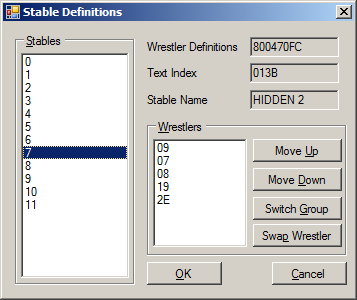
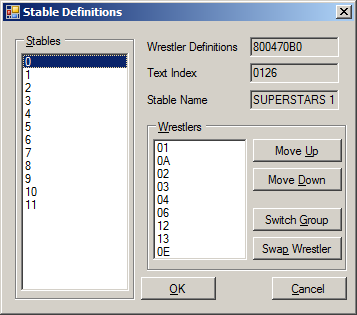
more updates to the manual

diff --git a/VPWStudio/VPWStudio/Manual/index.html b/VPWStudio/VPWStudio/Manual/index.html
@@ -75,8 +75,7 @@ works directly on game data.</p>
 <tr>
 	<th>Game Name</th>
 	<!--<th>Platform</th>-->
-	<th>Region</th>
-	<th>Revision</th>
+	<th>Supported Releases</th>
 </tr>
 </thead>
 <tbody>
@@ -84,97 +83,41 @@ works directly on game data.</p>
 	<td>バーチャル・プロレス<br/>(Virtual Pro-Wrestling)</td>
 	<td>PlayStation 1</td>
 	<td>NTSC-J</td>
-	<td>Original Release</td>
 </tr>-->
 <!--<tr>
 	<td>WCW vs. the World</td>
 	<td>PlayStation 1</td>
 	<td>NTSC-U</td>
-	<td>Original Release</td>
 </tr>-->
 <tr>
 	<td>WCW vs. nWo World Tour</td>
 	<!--<td>Nintendo 64</td>-->
-	<td>NTSC-U</td>
-	<td>Original Release ("v1.0")</td>
-</tr>
-<tr>
-	<td>WCW vs. nWo World Tour</td>
-	<!--<td>Nintendo 64</td>-->
-	<td>NTSC-U</td>
-	<td>Revision A ("v1.1")</td>
-</tr>
-<tr>
-	<td>WCW vs. nWo World Tour</td>
-	<!--<td>Nintendo 64</td>-->
-	<td>PAL</td>
-	<td>Original Release</td>
+	<td>NTSC-U v1.0, NTSC-U v1.1, PAL</td>
 </tr>
 <tr>
 	<td>バーチャル・プロレス64<br/>(Virtual Pro-Wrestling 64)</td>
 	<!--<td>Nintendo 64</td>-->
 	<td>NTSC-J</td>
-	<td>Original Release</td>
 </tr>
 <tr>
 	<td>WCW/nWo Revenge</td>
 	<!--<td>Nintendo 64</td>-->
-	<td>NTSC-U</td>
-	<td>Original Release</td>
+	<td>NTSC-U, PAL</td>
 </tr>
 <tr>
-	<td>WCW/nWo Revenge</td>
+	<td>WWF WrestleMania 2000<br/>(WWFレッスルマニア2000)</td>
 	<!--<td>Nintendo 64</td>-->
-	<td>PAL</td>
-	<td>Original Release</td>
-</tr>
-<tr>
-	<td>WWF WrestleMania 2000</td>
-	<!--<td>Nintendo 64</td>-->
-	<td>NTSC-U</td>
-	<td>Original Release</td>
-</tr>
-<tr>
-	<td>WWFレッスルマニア2000<br/>(WWF WrestleMania 2000)</td>
-	<!--<td>Nintendo 64</td>-->
-	<td>NTSC-J</td>
-	<td>Original Release</td>
-</tr>
-<tr>
-	<td>WWF WrestleMania 2000</td>
-	<!--<td>Nintendo 64</td>-->
-	<td>PAL</td>
-	<td>Original Release</td>
+	<td>NTSC-U, NTSC-J, PAL</td>
 </tr>
 <tr>
 	<td>バーチャル・プロレス2 〜王道継承〜<br/>(Virtual Pro-Wrestling 2)</td>
 	<!--<td>Nintendo 64</td>-->
 	<td>NTSC-J</td>
-	<td>Original Release</td>
 </tr>
 <tr>
 	<td>WWF No Mercy</td>
 	<!--<td>Nintendo 64</td>-->
-	<td>NTSC-U</td>
-	<td>Original Release ("v1.0"/"glitched")</td>
-</tr>
-<tr>
-	<td>WWF No Mercy</td>
-	<!--<td>Nintendo 64</td>-->
-	<td>NTSC-U</td>
-	<td>Revision A ("v1.1"/"unglitched")</td>
-</tr>
-<tr>
-	<td>WWF No Mercy</td>
-	<!--<td>Nintendo 64</td>-->
-	<td>PAL</td>
-	<td>Original Release ("v1.0"/"glitched")</td>
-</tr>
-<tr>
-	<td>WWF No Mercy</td>
-	<!--<td>Nintendo 64</td>-->
-	<td>PAL</td>
-	<td>Revision A ("v1.1"/"unglitched")</td>
+	<td>NTSC-U v1.0, NTSC-U v1.1, PAL v1.0, PAL v1.1</td>
 </tr>
 </tbody>
 </table>
@@ -310,6 +253,9 @@ dialog.</p>
 <p>To build a ROM with the changes you've made, select "Build ROM" from the "Project" menu.
 This will bring up a build log window, which provides updates on the build process.</p>
 
+<p>Depending on the speed of your computer and the Build Log Verbosity setting,
+this process may be relatively short (~10 seconds) or long.</p>
+
 <h3>Play ROM</h3>
 <p>If you want to test the changes in an emulator, select "Play ROM" from the "Project" menu.
 If the changed ROM hasn't been built yet, it will build the ROM before playing it.</p>
@@ -425,7 +371,7 @@ sounds.</p>
 </tr>
 <tr>
 <td>WWF WrestleMania 2000</td>
-<td class="partialsupport">Partial</td>
+<td class="supported">Partial</td>
 </tr>
 <tr>
 <td>Virtual Pro-Wrestling 2</td>
@@ -504,6 +450,15 @@ sounds.</p>
 <hr />
 <h2><a name="Wrestlers">Wrestlers</a></h2>
 <p>"Project &rarr; Wrestlers" (todo)</p>
+
+<h3>WWF WrestleMania 2000</h3>
+<img src="./img/wrestler_editor-wm2k.png" title="Stable Editor - WWF WrestleMania 2000" />
+
+<h3>Virtual Pro-Wrestling 2</h3>
+<img src="./img/wrestler_editor-vpw2.png" title="Stable Editor - Virtual Pro-Wrestling 2" />
+
+<h3>WWF No Mercy</h3>
+<img src="./img/wrestler_editor-nomercy.png" title="Stable Editor - WWF No Mercy" />
 
 <hr />
 <h2><a name="Tools">Tools</a></h2>
